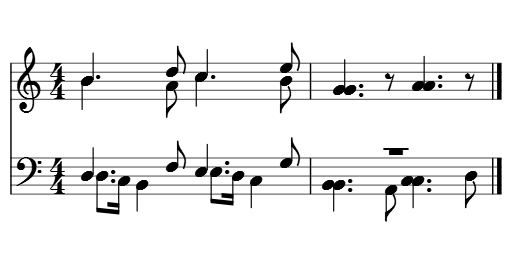
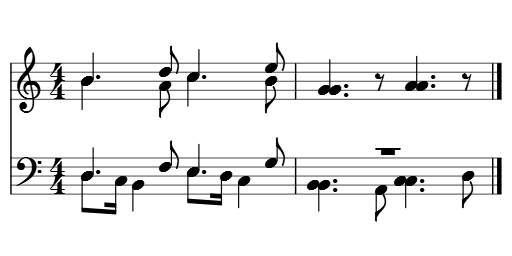
fix #25454: unisons should share noteheads despite duration difference
Former-commit-id: a13b0d9ff73b6dc15dfde5b871db52c2cd37643d

diff --git a/libmscore/layout.cpp b/libmscore/layout.cpp
@@ -248,6 +248,8 @@ void Score::layoutChords1(Segment* segment, int staffIdx)
                   Note* p = overlapNotes[0];
                   for (int i = 0, count = overlapNotes.size(); i < count; ++i) {
                         Note* n = overlapNotes[i];
+                        NoteHeadType nHeadType;
+                        NoteHeadType pHeadType;
                         if (n->mirror()) {
                               if (separation < 0) {
                                     // don't try to share heads if there is any mirroring
@@ -263,8 +265,10 @@ void Score::layoutChords1(Segment* segment, int staffIdx)
                                     // unison
                                     conflictUnison = true;
                                     matchPending = false;
-                                    if (n->headGroup() != p->headGroup() || n->headType() != p->headType() || n->chord()->durationType() != p->chord()->durationType()
-                                        || n->tpc() != p->tpc() || n->mirror() || p->mirror())
+                                    nHeadType = (n->headType() == NoteHeadType::HEAD_AUTO) ? n->chord()->durationType().headType() : n->headType();
+                                    pHeadType = (p->headType() == NoteHeadType::HEAD_AUTO) ? p->chord()->durationType().headType() : p->headType();
+                                    if (n->headGroup() != p->headGroup() || nHeadType != pHeadType || n->chord()->dots() != p->chord()->dots()
+                                        || n->tpc() != p->tpc() || !n->chord()->stem() || !p->chord()->stem() || n->mirror() || p->mirror())
                                           shareHeads = false;
                                     break;
                               case 1:
